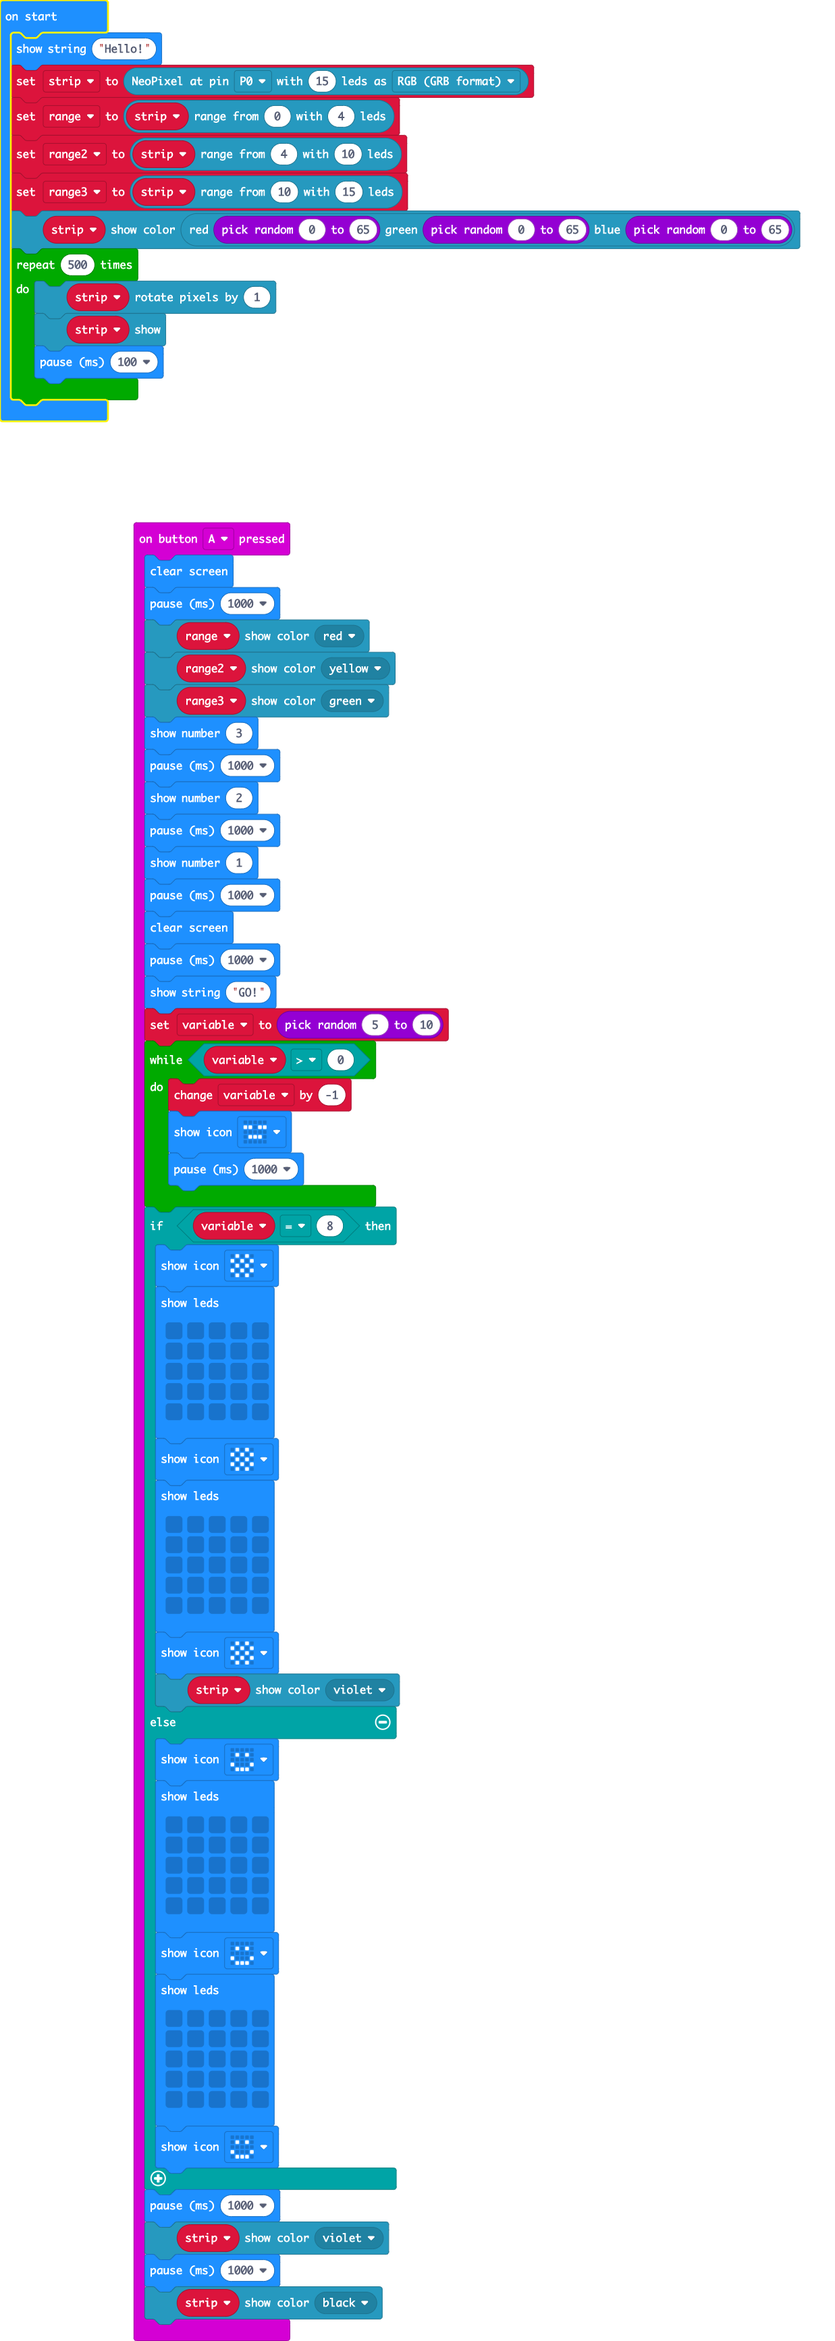
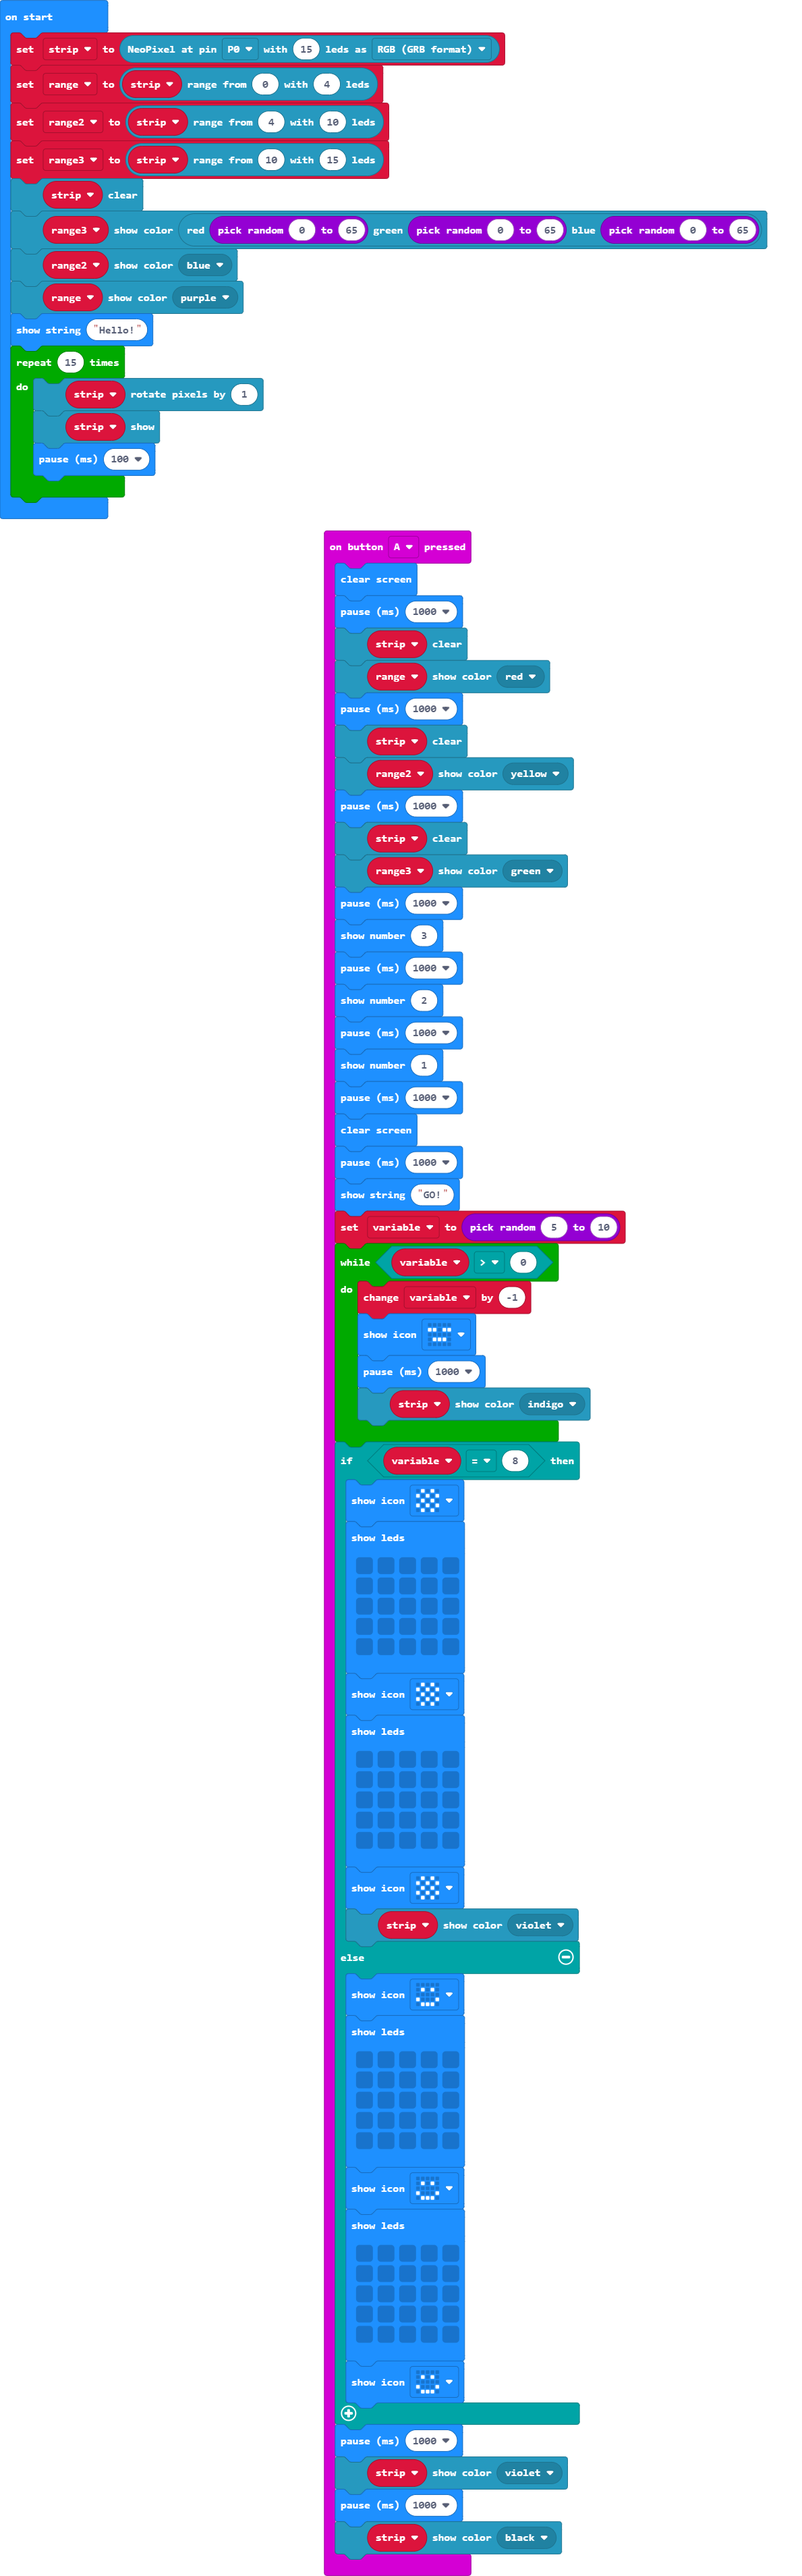
fixed issues

diff --git a/main.ts b/main.ts
@@ -1,9 +1,15 @@
 input.onButtonPressed(Button.A, function () {
     basic.clearScreen()
     basic.pause(1000)
+    strip2.clear()
     range.showColor(neopixel.colors(NeoPixelColors.Red))
+    basic.pause(1000)
+    strip2.clear()
     range2.showColor(neopixel.colors(NeoPixelColors.Yellow))
+    basic.pause(1000)
+    strip2.clear()
     range3.showColor(neopixel.colors(NeoPixelColors.Green))
+    basic.pause(1000)
     basic.showNumber(3)
     basic.pause(1000)
     basic.showNumber(2)
@@ -18,6 +24,7 @@ input.onButtonPressed(Button.A, function () {
         variable += -1
         basic.showIcon(IconNames.Asleep)
         basic.pause(1000)
+        strip2.showColor(neopixel.colors(NeoPixelColors.Indigo))
     }
     if (variable == 8) {
         basic.showIcon(IconNames.Chessboard)
@@ -67,13 +74,16 @@ let range3: neopixel.Strip = null
 let range2: neopixel.Strip = null
 let range: neopixel.Strip = null
 let strip2: neopixel.Strip = null
-basic.showString("Hello!")
 strip2 = neopixel.create(DigitalPin.P0, 15, NeoPixelMode.RGB)
 range = strip2.range(0, 4)
 range2 = strip2.range(4, 10)
 range3 = strip2.range(10, 15)
-strip2.showColor(neopixel.rgb(randint(0, 65), randint(0, 65), randint(0, 65)))
-for (let index = 0; index < 500; index++) {
+strip2.clear()
+range3.showColor(neopixel.rgb(randint(0, 65), randint(0, 65), randint(0, 65)))
+range2.showColor(neopixel.colors(NeoPixelColors.Blue))
+range.showColor(neopixel.colors(NeoPixelColors.Purple))
+basic.showString("Hello!")
+for (let index = 0; index < 15; index++) {
     strip2.rotate(1)
     strip2.show()
     basic.pause(100)
